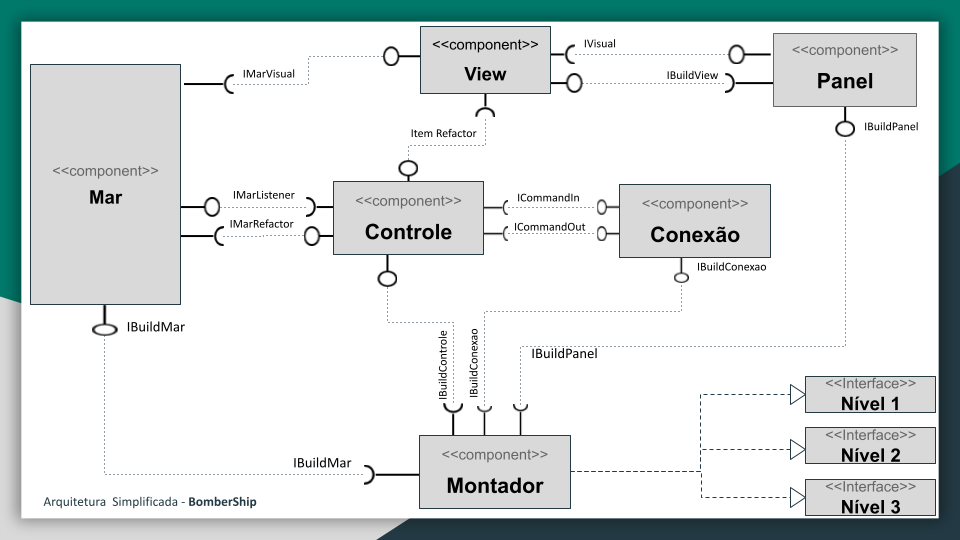
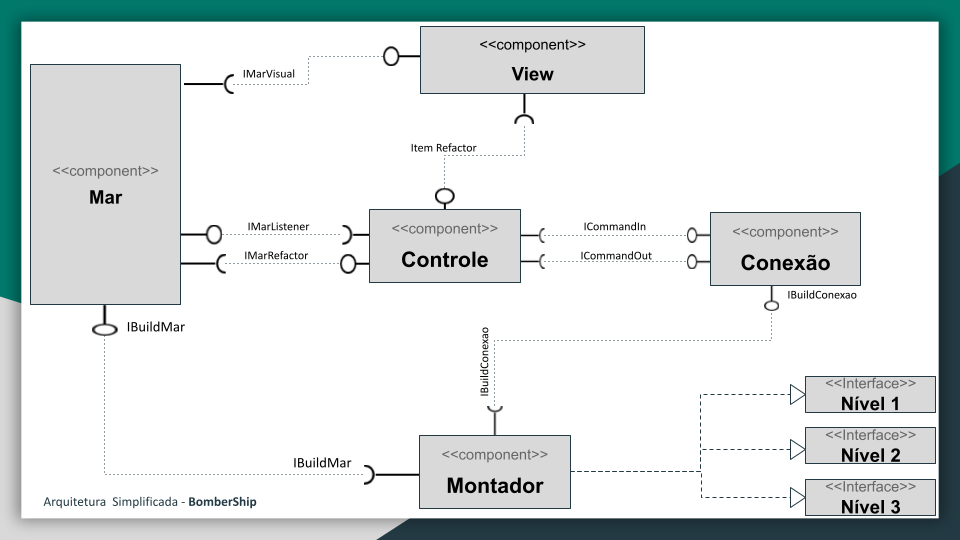
arrumando README e excluindo o component Panel e arrumando as interfaces dos demais componentes

diff --git a/BomberShip/README.md b/BomberShip/README.md
@@ -28,7 +28,7 @@
    ![Diagrama Geral](https://github.com/e196486/TimEca/blob/master/BomberShip/assets/docs/VisaoGeral.png)
 
 ## Diagrama Geral de Componentes
- ![Diagrama Analise](https://github.com/e196486/TimEca/blob/master/BomberShip/assets/docs/Diagrama%20de%20Components.png)
+ ![Diagrama Analise](https://github.com/e196486/TimEca/blob/master/BomberShip/assets/docs/Components.png)
 
 ## Componente `Mar`
 
@@ -63,24 +63,7 @@ Interfaces | `IMarVisual, IBuildView`
 ### Interfaces
 
 Interfaces associadas a esse componente:
-
-
-## Componente `Panel`
-
-> O painel ficará responsável por exibir visualmente para o usuário e permitir que sejam criados os botoes, representados pelas celulas, para que o jogo inicie. 
-![Painel](https://github.com/e196486/TimEca/blob/master/BomberShip/assets/docs/Panel%20component.png)
- 
-**Ficha Técnica**
-item | detalhamento
------ | -----
-Classe | `panelComponent`
-Autores | `Erica e Henrique`
-Interfaces | `IVisual, IBuildPanel`
-
-### Interfaces
-
-Interfaces associadas a esse componente:
-
+   
 
 ## Componente `Controle`
 
@@ -282,18 +265,6 @@ Método | Objetivo
 `enviaDados(String string)` | `O enviaDados manda a Jogada 'string' para o outro Player`
 
 
-### Interface `IBuildControle`
-
-`Interface responsável criar o Controle .`
-
-~~~
-<Interface em Java.>
-~~~
-
-Método | Objetivo
--------| --------
-`<id do método em Java>` | `<objetivo do método e descrição dos parâmetros>`
-
 ### Interface `IBuildConexao`
 
 `Interface responsável criar a conexao .`
@@ -327,19 +298,7 @@ Método | Objetivo
 -------| --------
 `<id do método em Java>` | `<objetivo do método e descrição dos parâmetros>`
 
-### Interface `IBuildPanel`
-
-`Interface responsável criar o JPanel.`
-
-~~~
-<Interface em Java.>
-~~~
-
-Método | Objetivo
--------| --------
-`<id do método em Java>` | `<objetivo do método e descrição dos parâmetros>`
-
-
+ 
  
 # Plano de Exceções
 
